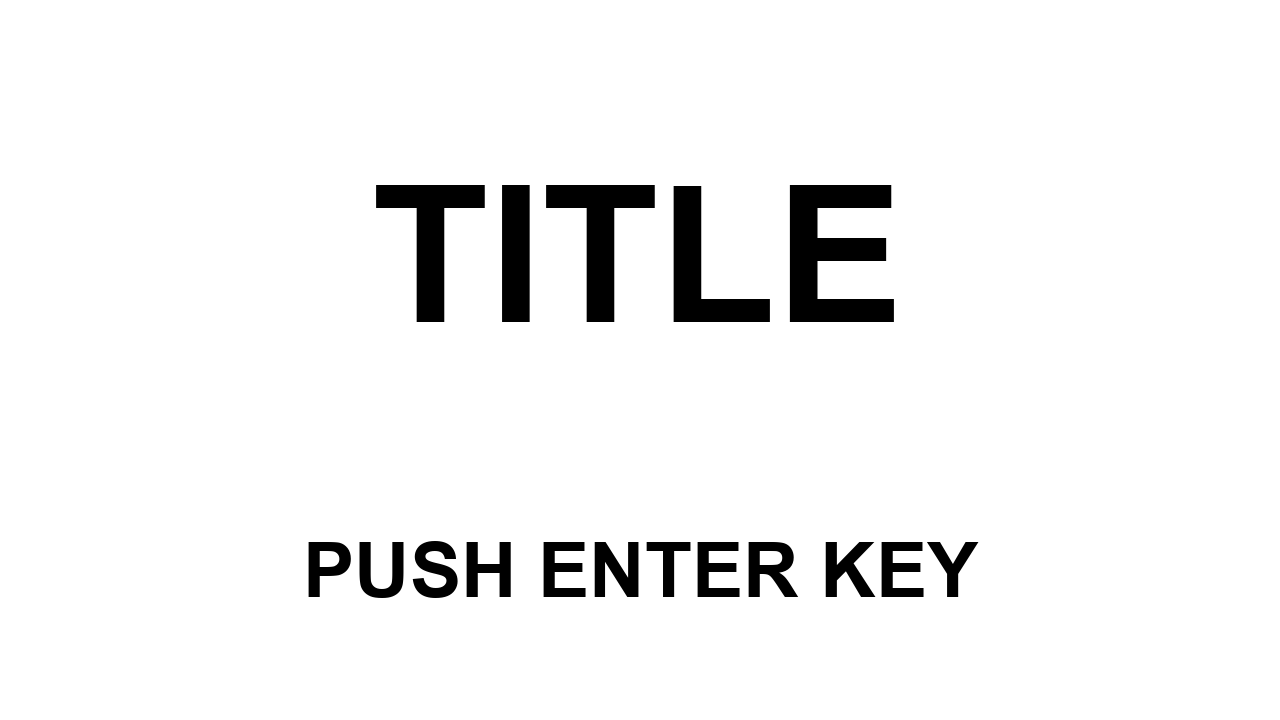
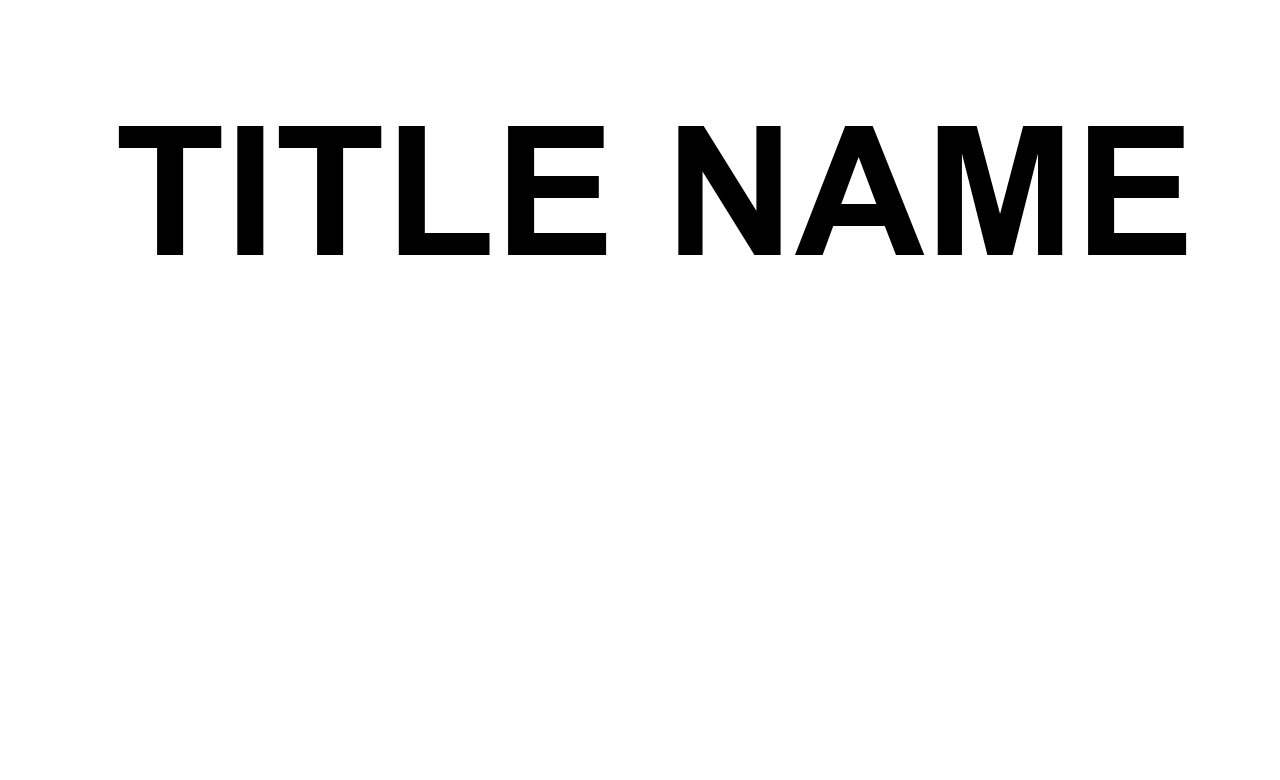
多分完了

Changed region(s): [[0.0938, 0.1528, 0.9375, 0.4583], [0.2188, 0.7333, 0.7812, 0.8556]]

diff --git a/DirectXGame/GameScene.cpp b/DirectXGame/GameScene.cpp
@@ -7,15 +7,20 @@ GameScene::GameScene() {}
 GameScene::~GameScene() {
 	// デストラクタ
 	delete sprite_;
+	delete sprite2_;
 }
 
 void GameScene::Initialize() {
 
 	// ファイル名を指定してテクスチャを読み込む
-	textureHandle_ = TextureManager::Load("./Resources/Title/Title.png");
+	textureHandle_ = TextureManager::Load("./Resources/Title/TitleKey.png");
+
+	textureHandle2_ = TextureManager::Load("./Resources/Title/Title.png");
 
 	// スプライトインスタンスの生成
 	sprite_ = Sprite::Create(textureHandle_, {0, 0});
+
+	sprite2_ = Sprite::Create(textureHandle2_, {0, 0});
 }
 
 void GameScene::Update() {
@@ -27,6 +32,22 @@ void GameScene::Update() {
 
 	// スプライトの位置を更新
 	sprite_->SetPosition({0.0f, y});
+
+	// sprite2_ の移動処理（上から下へ）
+	Vector2 position = sprite2_->GetPosition();
+
+	const float targetY = 100.0f;
+	const float speed = 1.0f;
+
+	if (position.y < targetY) {
+		position.y += speed;
+
+		if (position.y > targetY) {
+			position.y = targetY;
+		}
+	}
+
+	sprite2_->SetPosition(position);
 }
 
 void GameScene::Draw() {
@@ -39,6 +60,8 @@ void GameScene::Draw() {
 	if (frameCount % 150 >= 30) {
 		sprite_->Draw();
 	}
+
+	sprite2_->Draw();
 
 	// スプライト描画後処理
 	Sprite::PostDraw();

diff --git a/DirectXGame/GameScene.h b/DirectXGame/GameScene.h
@@ -20,9 +20,11 @@ public:
 private:
 	// テクスチャハンドル
 	uint32_t textureHandle_ = 0;
+	uint32_t textureHandle2_ = 0;
 
 	// スプライト
 	KamataEngine::Sprite* sprite_ = nullptr;
+	KamataEngine::Sprite* sprite2_ = nullptr;
 
 	// メンバー変数に追加
 	int frameCount = 0;
